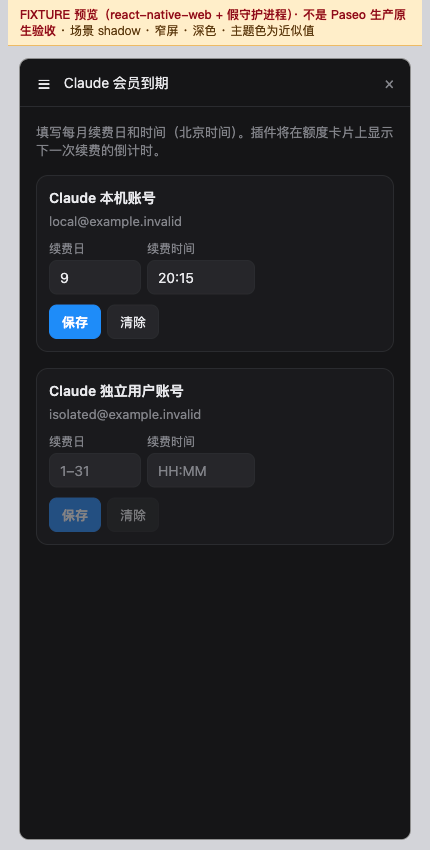
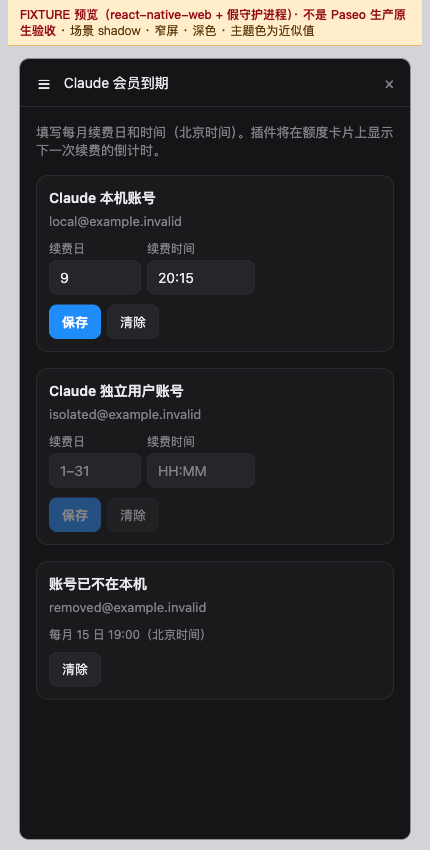
补全 Claude 会员到期设置的账号边界（fliggy-travel-ai/deepseek-harness#2472）

Changed region(s): [[0.0907, 0.6729, 0.4837, 0.7953]]

diff --git a/paseo-github-subscriptions/tests/quota-module.test.ts b/paseo-github-subscriptions/tests/quota-module.test.ts
@@ -1,7 +1,7 @@
 import test from 'node:test';
 import assert from 'node:assert/strict';
 import { EventEmitter } from 'node:events';
-import { chmodSync, existsSync, mkdirSync, readdirSync, mkdtempSync, readFileSync, rmSync, writeFileSync } from 'node:fs';
+import fs, { chmodSync, existsSync, mkdirSync, readdirSync, mkdtempSync, readFileSync, rmSync, writeFileSync } from 'node:fs';
 import { tmpdir } from 'node:os';
 import { join } from 'node:path';
 import * as nodeModule from 'node:module';
@@ -9,6 +9,7 @@ import { fileURLToPath } from 'node:url';
 import { loadMachineConfig } from '../server/core/machine-config.ts';
 import { startModules } from '../server/core/modules.ts';
 import { claudeAccountsConfigure } from '../shared/claude-accounts.ts';
+import { claudeMembershipList, claudeMembershipSet } from '../shared/claude-membership.ts';
 import { resolveInstance } from '../shared/instances.ts';
 
 // 复制来的上游文件用 .js 导入；Node 直接跑测试时把它们解析到 .ts（生产环境由 Paseo 打包）。
@@ -25,6 +26,54 @@ const { claudeAccountsModule } = await import('../server/modules/usage-claude-ac
 hooks.deregister();
 
 const RELAY = 'private' + 'relay.appleid.example';
+
+test('会员到期设置只列出由插件提供额度卡片的账号', async t => {
+  const realExists = fs.existsSync;
+  let builtin = true;
+  const mock = t.mock.method(fs, 'existsSync', (path: Parameters<typeof realExists>[0]) =>
+    typeof path === 'string' && path.endsWith('/builtin-plugins/claude-usage-source') ? builtin : realExists(path));
+  nodeModule.syncBuiltinESMExports();
+  const defaultEmail = 'default@example.invalid'; // scan-allow
+  try {
+    for (const installed of [true, false]) {
+      builtin = installed;
+      const run = setup();
+      try {
+        writeFileSync(join(run.root, '.claude.json'), JSON.stringify({
+          oauthAccount: { accountUuid: 'default', organizationUuid: 'org1', emailAddress: defaultEmail },
+        }));
+        const accounts = claudeMembershipList.output.parse(await run.handlers.get(claudeMembershipList.name)!({}));
+        const extraEmail = `x@${RELAY}`; // scan-allow
+        assert.deepEqual(accounts.map(account => account.email), installed ? [extraEmail] : [defaultEmail, extraEmail]);
+        if (installed) {
+          await assert.rejects(run.handlers.get(claudeMembershipSet.name)!({ email: defaultEmail, renewal: { day: 9, time: '20:15' } }), /本机未发现/);
+        }
+      } finally { await run.done(); }
+    }
+  } finally {
+    mock.mock.restore();
+    nodeModule.syncBuiltinESMExports();
+  }
+});
+
+test('账号移出本机额度列表后保留续费记录，拒绝改写并允许清除', async () => {
+  const run = setup();
+  try {
+    const email = `x@${RELAY}`; // scan-allow
+    const renewal = { day: 31, time: '20:15' };
+    const list = async () => claudeMembershipList.output.parse(await run.handlers.get(claudeMembershipList.name)!({}));
+    const set = (value: typeof renewal | null) => run.handlers.get(claudeMembershipSet.name)!({ email, renewal: value });
+    assert.deepEqual(await set(renewal), renewal);
+    assert.deepEqual(await list(), [{ email, label: 'Claude · 旧名称', renewal }]);
+    writeFileSync(join(run.home, 'config.json'), JSON.stringify({ agents: { providers: { claude: { enabled: false } } } }));
+    assert.deepEqual(await list(), [{ email, label: null, renewal }]);
+    await assert.rejects(set({ day: 1, time: '01:00' }), /本机未发现/);
+    assert.deepEqual(await list(), [{ email, label: null, renewal }]);
+    assert.equal(await set(null), null);
+    assert.deepEqual(await list(), []);
+    assert.deepEqual(JSON.parse(readFileSync(join(run.state, 'quota', 'membership-renewals.json'), 'utf8')), {});
+  } finally { await run.done(); }
+});
 
 function setup(options: { plugins?: Record<string, unknown>; json?: unknown; legacy?: Record<string, string>; rawConfig?: string; settingsJson?: string } = {}) {
   const root = mkdtempSync(join(tmpdir(), 'quota-module-'));

diff --git a/paseo-github-subscriptions/client/claude-membership.tsx b/paseo-github-subscriptions/client/claude-membership.tsx
@@ -5,6 +5,7 @@ import {
   claudeMembershipList, claudeMembershipSet, MembershipRenewalSchema,
   type MembershipAccount, type MembershipRenewal,
 } from '../shared/claude-membership.ts';
+import { modulesStatus } from '../shared/modules.ts';
 import { Btn, Card, Notice, useUi } from './ui.tsx';
 
 type MembershipRpc = Pick<PluginClientContext, 'rpc'>;
@@ -20,6 +21,7 @@ function AccountRow({ account, save }: {
   const [time, setTime] = useState(renewal?.time ?? '');
   const [pending, setPending] = useState<'save' | 'clear' | null>(null);
   const [message, setMessage] = useState<{ text: string; error: boolean } | null>(null);
+  const editable = account.label !== null;
 
   async function update(action: 'save' | 'clear') {
     const parsed = MembershipRenewalSchema.safeParse({ day: /^[0-9]{1,2}$/.test(day) ? Number(day) : NaN, time });
@@ -45,10 +47,10 @@ function AccountRow({ account, save }: {
   return (
     <Card>
       <View style={s.stack}>
-        <Text style={s.strong}>{account.label}</Text>
+        <Text style={s.strong}>{account.label ?? '账号已不在本机'}</Text>
         <Text style={s.muted} selectable>{account.email}</Text>
       </View>
-      <View style={s.wrap}>
+      {editable ? <View style={s.wrap}>
         <View style={[s.stack, { width: 92 }]}>
           <Text style={s.small}>续费日</Text>
           <TextInput accessibilityLabel="续费日" value={day} onChangeText={value => { setDay(value); setMessage(null); }}
@@ -61,9 +63,9 @@ function AccountRow({ account, save }: {
             placeholder="HH:MM" placeholderTextColor={theme.colors.foregroundMuted}
             style={[s.input, { minWidth: 0 }]} editable={!pending} />
         </View>
-      </View>
+      </View> : <Text style={s.small}>每月 {day} 日 {time}（北京时间）</Text>}
       <View style={s.wrap}>
-        <Btn label="保存" primary busy={pending === 'save'} disabled={!!pending || (!day && !time)} onPress={() => void update('save')} />
+        {editable ? <Btn label="保存" primary busy={pending === 'save'} disabled={!!pending || (!day && !time)} onPress={() => void update('save')} /> : null}
         <Btn label="清除" busy={pending === 'clear'} disabled={!!pending || !renewal} onPress={() => void update('clear')} />
       </View>
       {message ? (
@@ -82,7 +84,12 @@ export function createMembershipScreen(client: MembershipRpc) {
     const [error, setError] = useState<string | null>(null);
     useEffect(() => {
       let active = true;
-      void client.rpc(claudeMembershipList, {}).then(
+      void client.rpc(modulesStatus, {}).then(({ instance, modules }) => {
+        if (instance.role !== 'main' || !modules.some(module => module.id === 'usage.claudeAccounts' && module.state === 'running')) {
+          throw new Error('额度模块未在本主机运行，无法设置会员到期');
+        }
+        return client.rpc(claudeMembershipList, {});
+      }).then(
         result => { if (active) setAccounts(result); },
         cause => { if (active) setError(errorText(cause)); },
       );
@@ -99,7 +106,13 @@ export function createMembershipScreen(client: MembershipRpc) {
           <View style={s.wrap}><Btn label="重新读取" onPress={() => { setAccounts(null); setError(null); setReload(value => value + 1); }} /></View>
         ) : null}
         {accounts?.map(account => (
-          <AccountRow key={account.email} account={account} save={renewal => client.rpc(claudeMembershipSet, { email: account.email, renewal })} />
+          <AccountRow key={account.email} account={account} save={async renewal => {
+            const saved = await client.rpc(claudeMembershipSet, { email: account.email, renewal });
+            if (saved === null && account.label === null) {
+              setAccounts(current => current?.filter(item => item.email !== account.email) ?? null);
+            }
+            return saved;
+          }} />
         ))}
       </ScrollView>
     );

diff --git a/paseo-github-subscriptions/server/modules/usage-claude-accounts/index.ts b/paseo-github-subscriptions/server/modules/usage-claude-accounts/index.ts
@@ -130,6 +130,7 @@ export const claudeAccountsModule: Module<ClaudeAccountsSection> = {
       const displayLabels = readLabels(labelsFile);
       const accounts = new Map<string, string>();
       for (const [id, env] of providerEnvs(home)) {
+        if (id === 'claude' && !includeDefault) continue;
         const email = MembershipEmailSchema.safeParse(usage.membershipEmail(env));
         if (!email.success || accounts.has(email.data)) continue;
         const label = providers[id]?.label;
@@ -139,12 +140,16 @@ export const claudeAccountsModule: Module<ClaudeAccountsSection> = {
     };
     server.handle(claudeMembershipList, async (): Promise<MembershipAccount[]> => {
       const entries = membership.read();
-      return Array.from(membershipAccounts(), ([email, label]) => ({ email, label, renewal: entries[email] ?? null }));
+      const accounts = membershipAccounts();
+      return [
+        ...Array.from(accounts, ([email, label]) => ({ email, label, renewal: entries[email] ?? null })),
+        ...Object.entries(entries).filter(([email]) => !accounts.has(email)).map(([email, renewal]) => ({ email, label: null, renewal })),
+      ];
     });
     let stopped = false;
     server.handle(claudeMembershipSet, async ({ email, renewal }) => {
       if (stopped) throw new Error('Claude 账号额度模块已停止');
-      if (!membershipAccounts().has(email)) throw new Error('本机未发现此 Claude 账号，请刷新列表');
+      if (renewal !== null && !membershipAccounts().has(email)) throw new Error('本机未发现此 Claude 账号，请刷新列表');
       membership.set(email, renewal);
       return renewal;
     });

diff --git a/paseo-github-subscriptions/tests/ui/fake-daemon.ts b/paseo-github-subscriptions/tests/ui/fake-daemon.ts
@@ -27,6 +27,7 @@ export class FakeDaemon {
   membershipAccounts: MembershipAccount[] = [
     { label: 'Claude 本机账号', email: 'local@example.invalid', renewal: { day: 9, time: '20:15' } }, // scan-allow
     { label: 'Claude 独立用户账号', email: 'isolated@example.invalid', renewal: null }, // scan-allow
+    { label: null, email: 'removed@example.invalid', renewal: { day: 15, time: '19:00' } }, // scan-allow
   ];
   browser = {
     ...makeBrowser(),
@@ -316,6 +317,11 @@ export class FakeDaemon {
       case 'claude-membership.set': {
         const account = this.membershipAccounts.find(item => item.email === input.email);
         if (!account) throw new Error('本机未发现此 Claude 账号，请刷新列表');
+        if (account.label === null) {
+          if (input.renewal !== null) throw new Error('本机未发现此 Claude 账号，请刷新列表');
+          this.membershipAccounts = this.membershipAccounts.filter(item => item !== account);
+          return null;
+        }
         account.renewal = input.renewal as MembershipRenewal | null;
         return account.renewal;
       }

diff --git a/paseo-github-subscriptions/validation/ui/entry.jsx b/paseo-github-subscriptions/validation/ui/entry.jsx
@@ -26,6 +26,11 @@ for (const level of ['log', 'info', 'warn', 'error']) {
 }
 
 const { App, handle } = createPreview(options);
+if (params.get('membership') === 'off') {
+  const quotaModule = handle.daemon.machineSettings.modules.find(module => module.id === 'usage.claudeAccounts');
+  quotaModule.enabled = false;
+  quotaModule.state = 'off';
+}
 handle.consoleLog = consoleLog;
 window.__ghsub = {
   options,

diff --git a/paseo-github-subscriptions/shared/claude-membership.ts b/paseo-github-subscriptions/shared/claude-membership.ts
@@ -10,7 +10,7 @@ export type MembershipRenewal = z.infer<typeof MembershipRenewalSchema>;
 
 const MembershipAccountSchema = z.strictObject({
   email: MembershipEmailSchema,
-  label: z.string(),
+  label: z.string().nullable(),
   renewal: MembershipRenewalSchema.nullable(),
 });
 export type MembershipAccount = z.infer<typeof MembershipAccountSchema>;

diff --git a/paseo-github-subscriptions/docs/answer-usage-modules.md b/paseo-github-subscriptions/docs/answer-usage-modules.md
@@ -27,7 +27,7 @@
 - **旧插件保护**：同步读取 `~/.paseo/config.json` 的 `plugins`。旧插件 `claude-quota-resume` 仍启用时，**不注册额度来源，整个模块报错**（页面 `claude-accounts.snapshot` 返回原因，写操作被拒绝）。原因：来源 ID 重复会让整个实例停止；两处同时运行还会重复改写 Provider 显示名称、重复发送继续消息。
 - **自动继续默认值**：`claudeAccounts.autoResumeDefault`（默认 `false`）。没有单独选择过的会话（含新会话）按这个值处理；会话卡片上的勾选是单独选择，保存在 `enabled-agents.json` 或 `disabled-agents.json`，默认值改变后仍保留。归档会话时清掉它的选择。页面（“本机配置”面板的“新建 Claude 会话默认开启自动继续”开关）保存在 `quota/settings.json`，优先于 `machine.json`。
 - **状态目录** `~/.paseo/github-subscriptions/quota/`：`jobs.json`、`enabled-agents.json`、`disabled-agents.json`、`usage-history.json`、`cross-user-providers.json`、`cross-user-cache.json`、`renewal/`、`settings.json`、`membership-renewals.json`。账号显示标签在 `~/.paseo/github-subscriptions/labels.json`（隐藏邮箱 → 显示名称）。
-- **会员到期**：设置页通过 `claude-membership.list` 和 `claude-membership.set` 读写当前主机的 `quota/membership-renewals.json`。使用 Anthropic 返回的邮箱做索引。Apple 登录使用隐藏邮箱，账号显示标签只影响名称。每个邮箱只列一次。独立用户通过已有额度查询结果确认身份，打开设置页不会发起额度查询。填写与清除在下一次插件额度报告中生效。插件在可用报告中添加 `membership_renewal`，覆盖本用户和独立用户账号。只有内置 `claude` 来源提供的卡片没有这项明细。
+- **会员到期**：设置页通过 `claude-membership.list` 和 `claude-membership.set` 读写当前主机的 `quota/membership-renewals.json`。使用 Anthropic 返回的邮箱做索引。Apple 登录使用隐藏邮箱，账号显示标签只影响名称。每个邮箱只列一次。仅由内置 `claude` 来源提供额度卡片的默认账号不开放填写。已保存但离开插件额度账号列表的条目标注「账号已不在本机」，仅可清除。额度模块未在当前主机运行时，页面提示无法设置。独立用户通过已有额度查询结果确认身份，打开设置页不会发起额度查询。填写与清除在下一次插件额度报告中生效。插件在可用报告中添加 `membership_renewal`，覆盖本用户和独立用户账号。额度报告为 `error` 或 `unavailable` 时，没有 `details` 字段，卡片不显示「会员到期」。
 - **续费时间**：日期和时间采用北京时间（Asia/Shanghai）。当月缺少所填日期时使用月末。续费时刻过去后使用下月日期。倒计时按完整单位显示天和小时、小时和分钟、或分钟。剩余时间不足 3 天时为警告色，不足 1 天时为危险色。尚未填写的账号不显示明细。状态文件不可读时设置页报错，插件保留文件及其他额度数据。
 - **查询合并与失败等待**：额度面板、容量计算和新建会话检查在同一插件进程、同一状态目录内共用普通账号和独立用户的查询、缓存及等待；各自的登录续期和额度身份校验仍独立，保存前合并较新的额度历史。成功结果缓存五分钟，401/403 按凭据缓存五分钟，新凭据不复用旧响应。普通账号的连接失败、超时和 5xx 按五、十、二十、三十分钟递增等待，成功后恢复正常缓存；服务端要求更长等待时遵守服务端时间。429 按账号遵守 Retry-After，缺失时等待十五分钟。界面刷新和创建新的检查实例不会绕过等待。
 - **失败记录与提示**：`request-cooldowns.json` 保留原有账号哈希 → 429 截止时间，并新增 `failures`（账号与接口哈希 → 故障类别、次数、截止时间）和 `aliases`（配置目录哈希 → 账号哈希），不保存凭据、凭据指纹、邮箱或接口响应。启动时只读合并旧 `claude-quota-resume/request-cooldowns.json`，采用较晚截止时间；身份资料暂时缺失时继续遵守原账号等待。资料接口临时失败时不额外探测额度，提示具体原因和下次允许重试时间。日志只记实际失败请求的账号哈希前缀、接口、结果和重试时间，本地等待不重复记为服务端限流。

diff --git a/paseo-github-subscriptions/validation/ui/2472-membership.md b/paseo-github-subscriptions/validation/ui/2472-membership.md
@@ -8,11 +8,15 @@
 | 续费日填 32 时显示校验提示 | 通过 |
 | 独立用户账号保存 31 日 20:15 后显示「已保存」 | 通过 |
 | 清除独立用户账号后显示「已清除」，本机账号仍为 9 日 20:15 | 通过 |
-| 窄屏深色布局展示两个账号及各自的操作 | 通过 |
+| 「账号已不在本机」显示原续费时间，仅提供「清除」 | 通过 |
+| 清除旧条目后，条目消失，当前账号的设置保留 | 通过 |
+| 窄屏深色布局展示当前账号和旧条目 | 通过 |
+| 额度模块停用时显示中文提示，页面跳过会员列表 RPC | 通过 |
 
 - [宽屏浅色，保存独立用户账号后](2472-membership-wide.png)
-- [窄屏深色，独立用户账号尚未填写](2472-membership-compact.png)
+- [窄屏深色，含仅可清除的旧条目](2472-membership-compact.png)
+- [额度模块停用时的提示](2472-membership-disabled.png)
 
-按 [预览说明](README.md#复现) 启动夹具。宽屏入口使用 `?route=settings:claude-membership`。窄屏深色入口再加 `&layout=compact&theme=dark`。
+按 [预览说明](README.md#复现) 启动夹具。宽屏入口使用 `?route=settings:claude-membership`。窄屏深色入口再加 `&layout=compact&theme=dark`。停用场景使用 `&membership=off`。
 
 Mac mini 和 MacBook 的原生 Paseo 设置页及真实额度卡片等待部署后验收。
